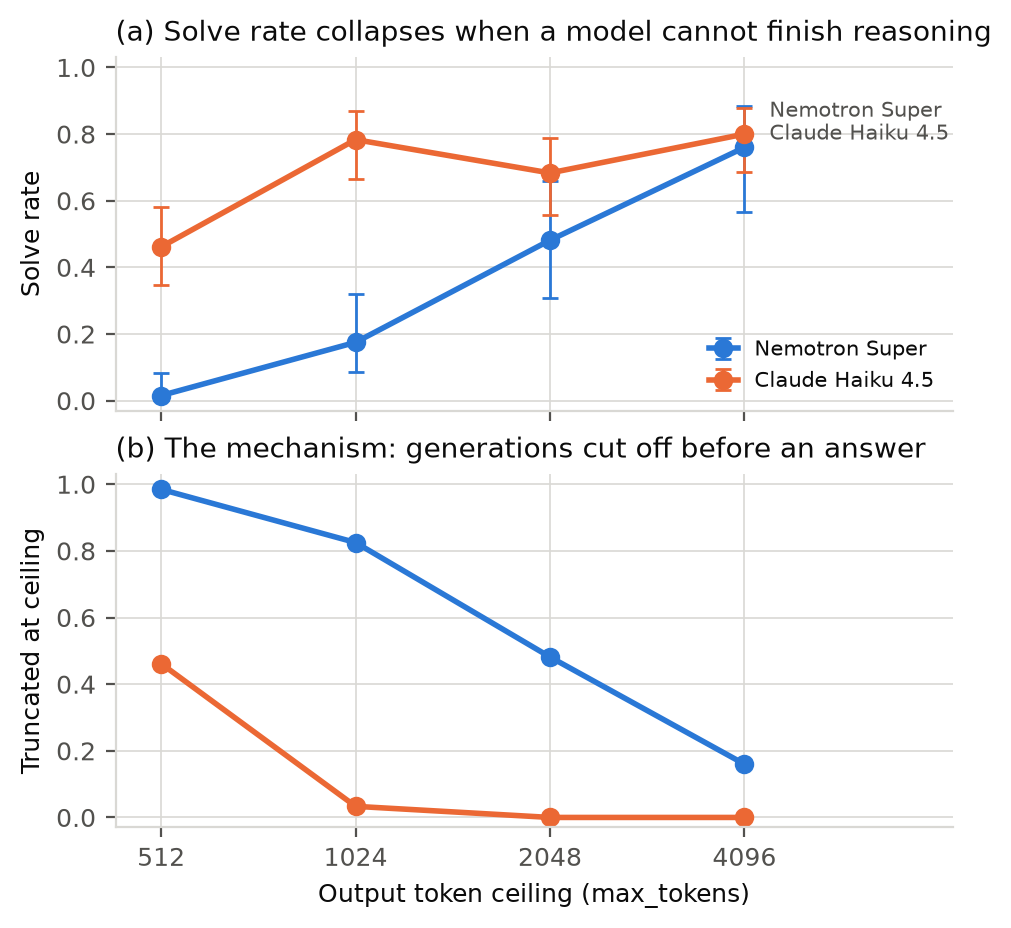
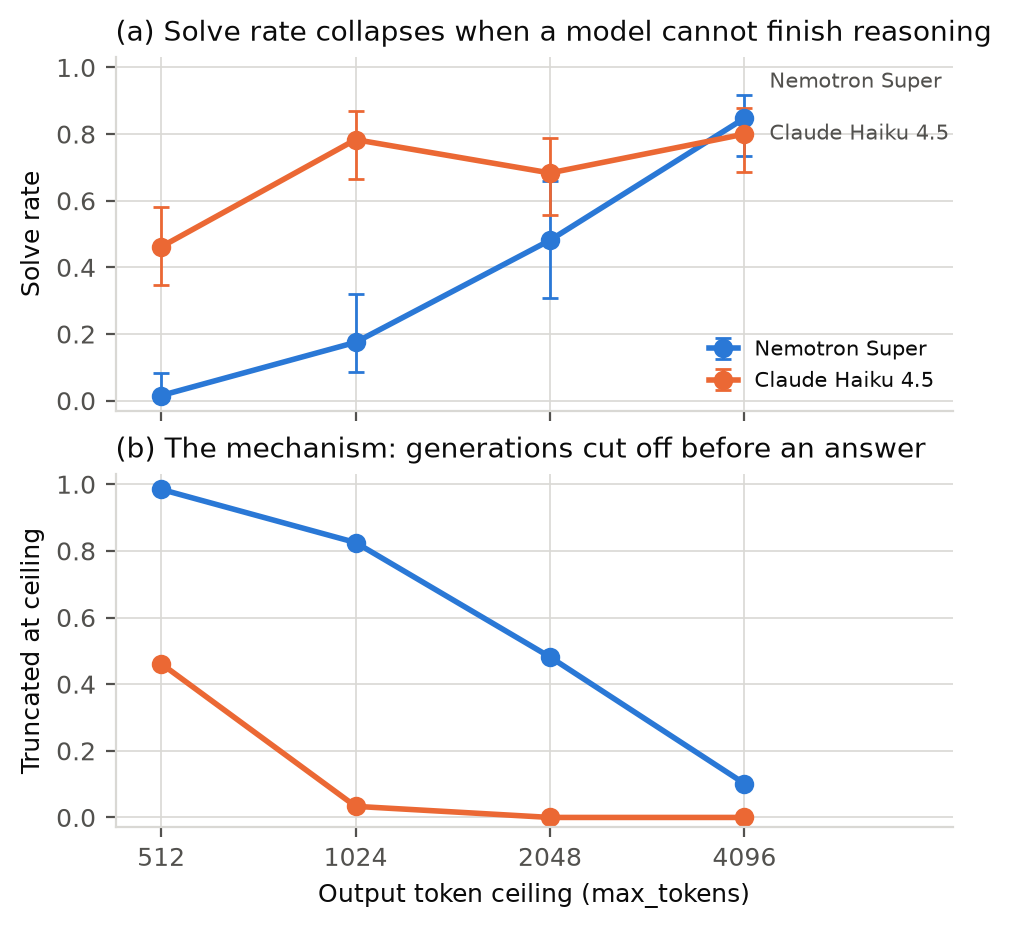
data: final numbers after the low-concurrency recovery pass
Re-running Nemotron's 4096 cell at 2 workers instead of 5 cut provider
errors from 40 to 6 and lifted the retained sample from 25 to 59,
confirming the rate limiting was driven by our own concurrency rather
than by the ceiling.

Final headline: 1.5% at a 512 ceiling to 84.7% at 4096, an 83 point
swing from one harness parameter. Truncation falls 98.5% to 10.2% over
the same sweep; conditional accuracy stays 85.7% to 100% throughout.

Nemotron now leads Claude numerically at the top ceiling (84.7 vs 80.0,
and 94.3 vs 80.0 conditional) but the pair is still not separable by
McNemar (10 vs 7 discordant of 59 paired). Reported as not separable.

diff --git a/paper/web/index.html b/paper/web/index.html
@@ -96,7 +96,7 @@
 
 <div class="abstract">
 <p>Comparisons between language models on planning benchmarks are usually reported as a single accuracy number per model. We show that for models which reason in the open, this number is not a property of the model alone. It is jointly determined by the output token ceiling the evaluator happened to choose.</p>
-<p>On the Calendar Scheduling task of <b>NATURAL PLAN</b>, raising the ceiling from 512 to 4096 tokens moves Nemotron Super from <b>1.5%</b> to <b>76.0%</b> with the prompt, the sample and the scoring held fixed. The model was not failing to plan. At the lower ceiling <b>98.5%</b> of its generations were cut off before an answer existed, and an exact match scorer recorded that truncation as a planning error.</p>
+<p>On the Calendar Scheduling task of <b>NATURAL PLAN</b>, raising the ceiling from 512 to 4096 tokens moves Nemotron Super from <b>1.5%</b> to <b>84.7%</b> with the prompt, the sample and the scoring held fixed. The model was not failing to plan. At the lower ceiling <b>98.5%</b> of its generations were cut off before an answer existed, and an exact match scorer recorded that truncation as a planning error.</p>
 </div>
 
 <h2>The finding</h2>
@@ -124,17 +124,17 @@
   <tbody>
     <tr><td>Nemotron Super</td><td>512</td><td class="hi">1.5%</td><td>98.5%</td><td>100.0%</td><td>65</td><td>0</td></tr>
     <tr><td>Nemotron Super</td><td>1024</td><td>17.5%</td><td>82.5%</td><td>85.7%</td><td>40</td><td>20</td></tr>
-    <tr><td>Nemotron Super</td><td>2048</td><td>50.0%</td><td>46.2%</td><td>85.7%</td><td>27</td><td>33</td></tr>
-    <tr><td>Nemotron Super</td><td>4096</td><td class="hi">76.0%</td><td>16.0%</td><td>90.5%</td><td>25</td><td>40</td></tr>
+    <tr><td>Nemotron Super</td><td>2048</td><td>48.1%</td><td>48.1%</td><td>85.7%</td><td>27</td><td>33</td></tr>
+    <tr><td>Nemotron Super</td><td>4096</td><td class="hi">84.7%</td><td>10.2%</td><td>94.3%</td><td>59</td><td>6</td></tr>
     <tr><td>Claude Haiku 4.5</td><td>512</td><td>46.2%</td><td>46.2%</td><td>82.9%</td><td>65</td><td>0</td></tr>
     <tr><td>Claude Haiku 4.5</td><td>1024</td><td>78.3%</td><td>3.3%</td><td>81.0%</td><td>60</td><td>0</td></tr>
-    <tr><td>Claude Haiku 4.5</td><td>2048</td><td>66.7%</td><td>0.0%</td><td>66.7%</td><td>60</td><td>0</td></tr>
+    <tr><td>Claude Haiku 4.5</td><td>2048</td><td>68.3%</td><td>0.0%</td><td>68.3%</td><td>60</td><td>0</td></tr>
     <tr><td>Claude Haiku 4.5</td><td>4096</td><td>80.0%</td><td>0.0%</td><td>80.0%</td><td>65</td><td>0</td></tr>
   </tbody>
 </table>
 </div>
 
-<p>Nemotron's headline accuracy ranges across <b>74 percentage points</b> as the ceiling moves. Its conditional accuracy, computed over only the generations allowed to finish, stays between 85.7% and 100% throughout. The headline number is measuring the harness, not the model.</p>
+<p>Nemotron's headline accuracy ranges across <b>83 percentage points</b> as the ceiling moves. Its conditional accuracy, computed over only the generations allowed to finish, stays between 85.7% and 100% throughout. The headline number is measuring the harness, not the model.</p>
 
 <h2>Detecting truncation is harder than it looks</h2>
 
@@ -157,7 +157,7 @@
 
 <div class="flag">
   <span class="tag">The result we did not want</span>
-  <p>At a matched ceiling, exact McNemar tests on paired per item outcomes separate <b>none</b> of the model pairs. Nemotron against Claude is 4 versus 5 discordant items. We report this because an earlier version of our own analysis counted provider rate limit errors as wrong answers and produced a confident <code>p &lt; 0.0001</code> that was entirely infrastructure noise.</p>
+  <p>At a matched ceiling, exact McNemar tests on paired per item outcomes separate <b>none</b> of the model pairs. Nemotron against Claude is 10 versus 7 discordant items out of 59 paired. We report this because an earlier version of our own analysis counted provider rate limit errors as wrong answers and produced a confident <code>p &lt; 0.0001</code> that was entirely infrastructure noise.</p>
 </div>
 
 <p>Run to run variation reinforces the caution. Nemotron at temperature zero scored 98.3% of items identically across two independent seeded runs. Claude, which we could not pin to temperature zero because its SDK no longer exposes the parameter, agreed on only 62.5%. A single accuracy figure for a model at a nondeterministic temperature is a draw from a distribution whose spread is not small.</p>

diff --git a/paper/numbers.tex b/paper/numbers.tex
@@ -4,12 +4,12 @@
 \newcommand{\claudeName}{Claude Haiku 4.5}
 \newcommand{\geminiName}{Gemini 3.5 Flash}
 \newcommand{\nemotronLowAcc}{1.5\%}
-\newcommand{\nemotronHighAcc}{76.0\%}
+\newcommand{\nemotronHighAcc}{84.7\%}
 \newcommand{\nemotronTruncLow}{98.5\%}
-\newcommand{\nemotronTruncHigh}{16.0\%}
+\newcommand{\nemotronTruncHigh}{10.2\%}
 \newcommand{\claudeTruncLow}{46.2\%}
 \newcommand{\nemotronCondLow}{100.0\%}
-\newcommand{\nemotronCondHigh}{90.5\%}
+\newcommand{\nemotronCondHigh}{94.3\%}
 \newcommand{\nemotronCondLowN}{1}
 \newcommand{\claudeLowAcc}{46.2\%}
 \newcommand{\claudeHighAcc}{80.0\%}

diff --git a/paper/table_main.tex b/paper/table_main.tex
@@ -5,7 +5,7 @@
 \toprule
 Model & Solve \% & 95\% CI & Trunc \% & Cond \% & $n$ & Lat.(s) & Out tok \\
 \midrule
-Nemotron Super & 76.0 & 56.6--88.5 & 16.0 & 90.5 & 25 & 22.7 & 2255 \\
+Nemotron Super & 84.7 & 73.5--91.8 & 10.2 & 94.3 & 59 & 22.6 & 2124 \\
 Claude Haiku 4.5 & 80.0 & 68.7--87.9 & 0.0 & 80.0 & 65 & 3.5 & 547 \\
 Gemini 3.5 Flash & 95.7 & 79.0--99.2 & 0.0 & 95.7 & 23 & 12.6 & 21 \\
 \bottomrule

diff --git a/paper/table_sig.tex b/paper/table_sig.tex
@@ -5,7 +5,7 @@
 \toprule
 Comparison & Only A & Only B & Disc. & $p$ \\
 \midrule
-Nemotron Super vs Claude Haiku 4.5 & 4 & 5 & 9 & n.s. \\
+Nemotron Super vs Claude Haiku 4.5 & 10 & 7 & 17 & n.s. \\
 Nemotron Super vs Gemini 3.5 Flash & 0 & 1 & 1 & n.s. \\
 Claude Haiku 4.5 vs Gemini 3.5 Flash & 0 & 4 & 4 & n.s. \\
 \bottomrule

diff --git a/paper/table1.md b/paper/table1.md
@@ -1,5 +1,5 @@
 | Model | Solve rate | 95% CI | Truncated | Cond. solve | n | Errors | Median latency | Mean out tokens |
 |---|---|---|---|---|---|---|---|---|
-| Nemotron Super | 76.0% | 0.566-0.885 | 16.0% | 90.5% | 25 | 40 | 22.7s | 2255 |
+| Nemotron Super | 84.7% | 0.735-0.918 | 10.2% | 94.3% | 59 | 6 | 22.6s | 2124 |
 | Claude Haiku 4.5 | 80.0% | 0.687-0.879 | 0.0% | 80.0% | 65 | 0 | 3.5s | 547 |
 | Gemini 3.5 Flash | 95.7% | 0.790-0.992 | 0.0% | 95.7% | 23 | 42 | 12.6s | 21 |

diff --git a/paper/table_sig.md b/paper/table_sig.md
@@ -1,5 +1,5 @@
 | Pair | Only A | Only B | Discordant | p (exact McNemar) |
 |---|---|---|---|---|
-| Nemotron Super vs Claude Haiku 4.5 | 4 | 5 | 9 | n.s. (n=25) |
-| Nemotron Super vs Gemini 3.5 Flash | 0 | 1 | 1 | n.s. (n=15) |
+| Nemotron Super vs Claude Haiku 4.5 | 10 | 7 | 17 | n.s. (n=59) |
+| Nemotron Super vs Gemini 3.5 Flash | 0 | 1 | 1 | n.s. (n=23) |
 | Claude Haiku 4.5 vs Gemini 3.5 Flash | 0 | 4 | 4 | n.s. (n=23) |
